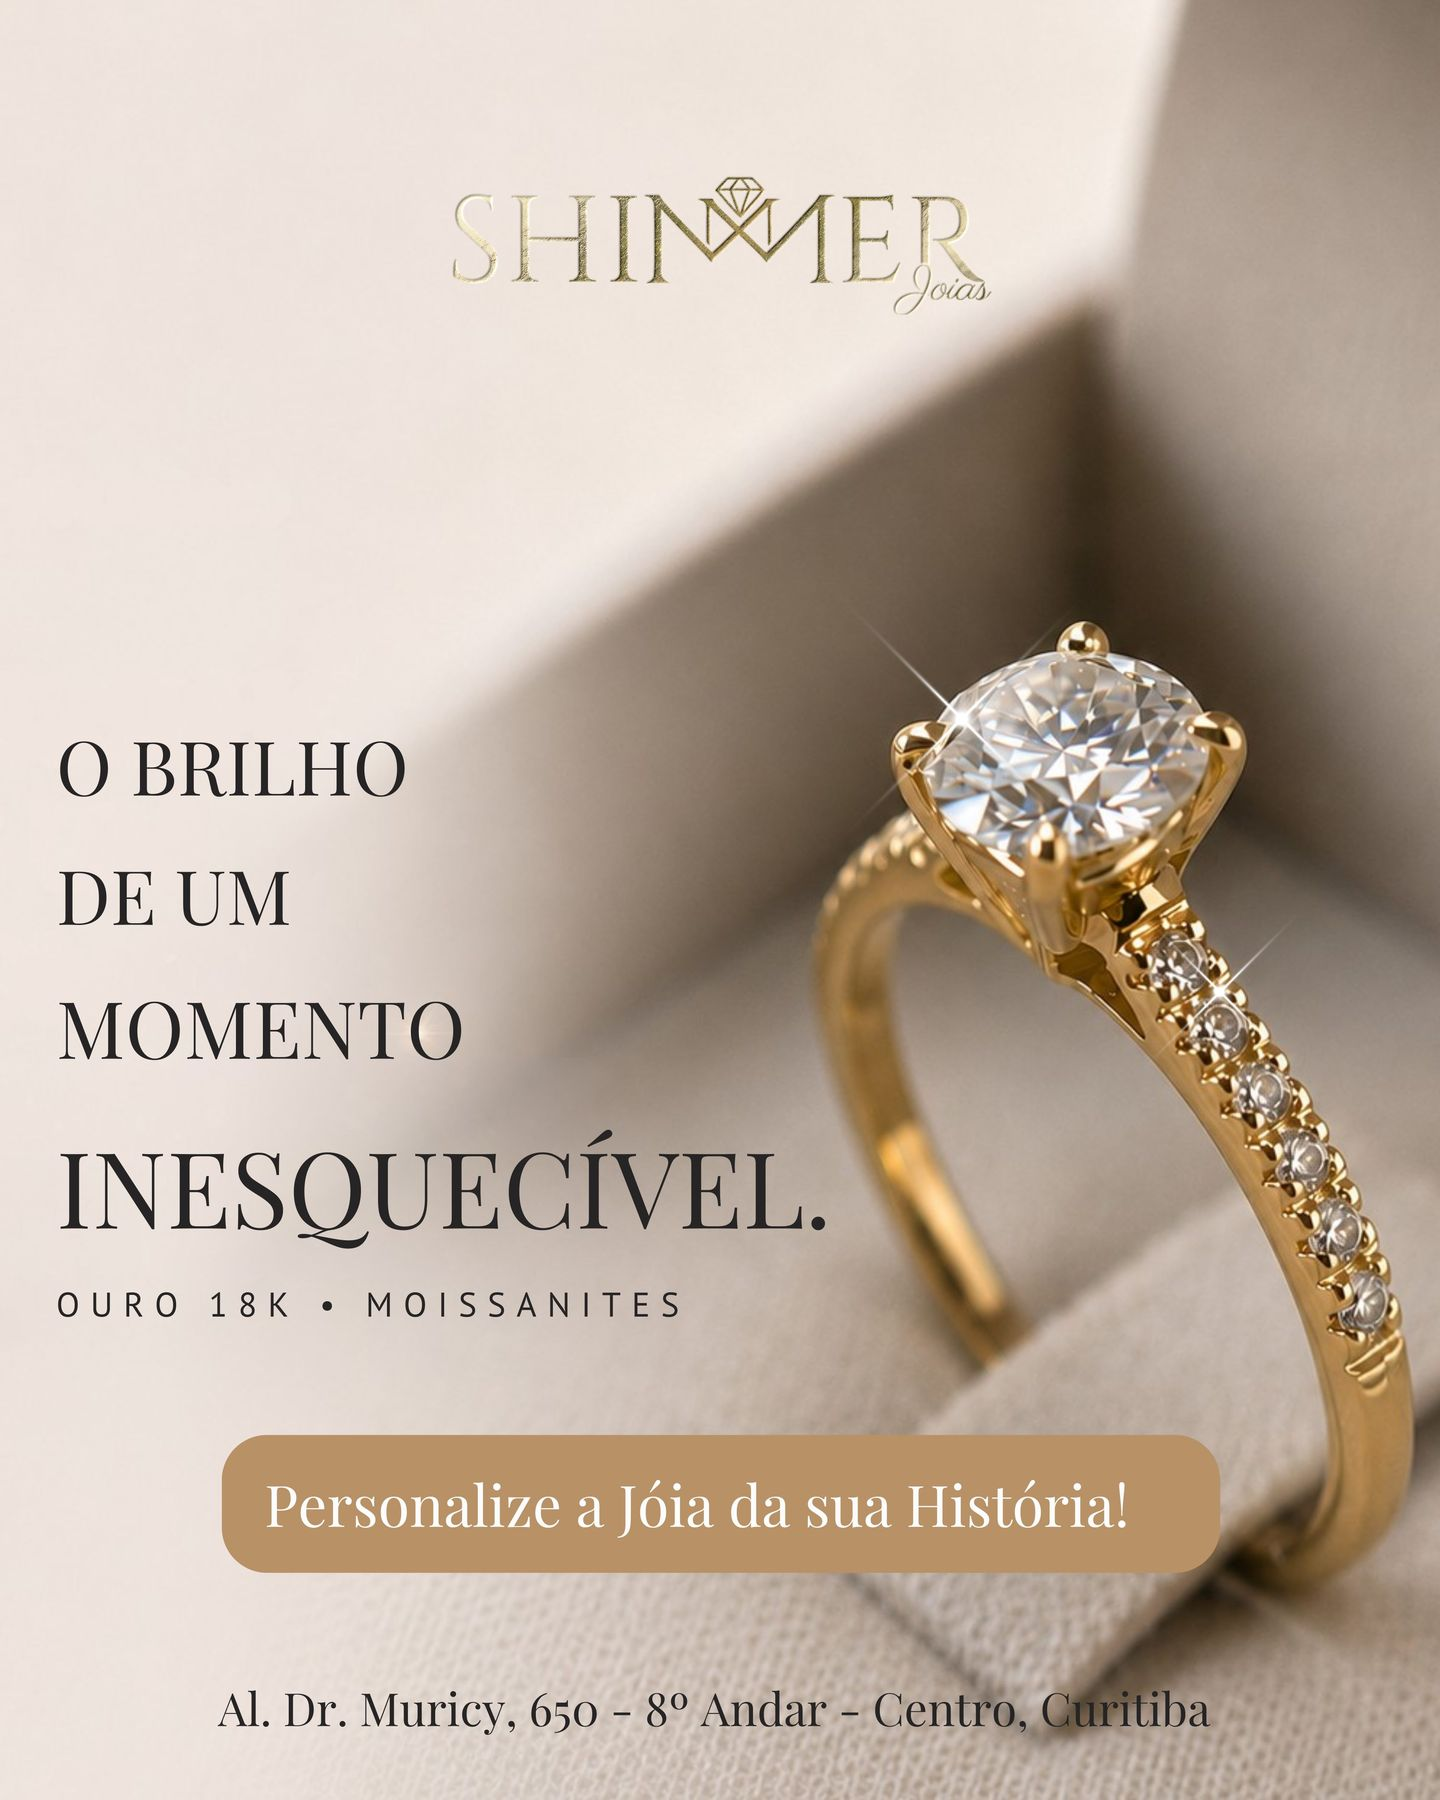
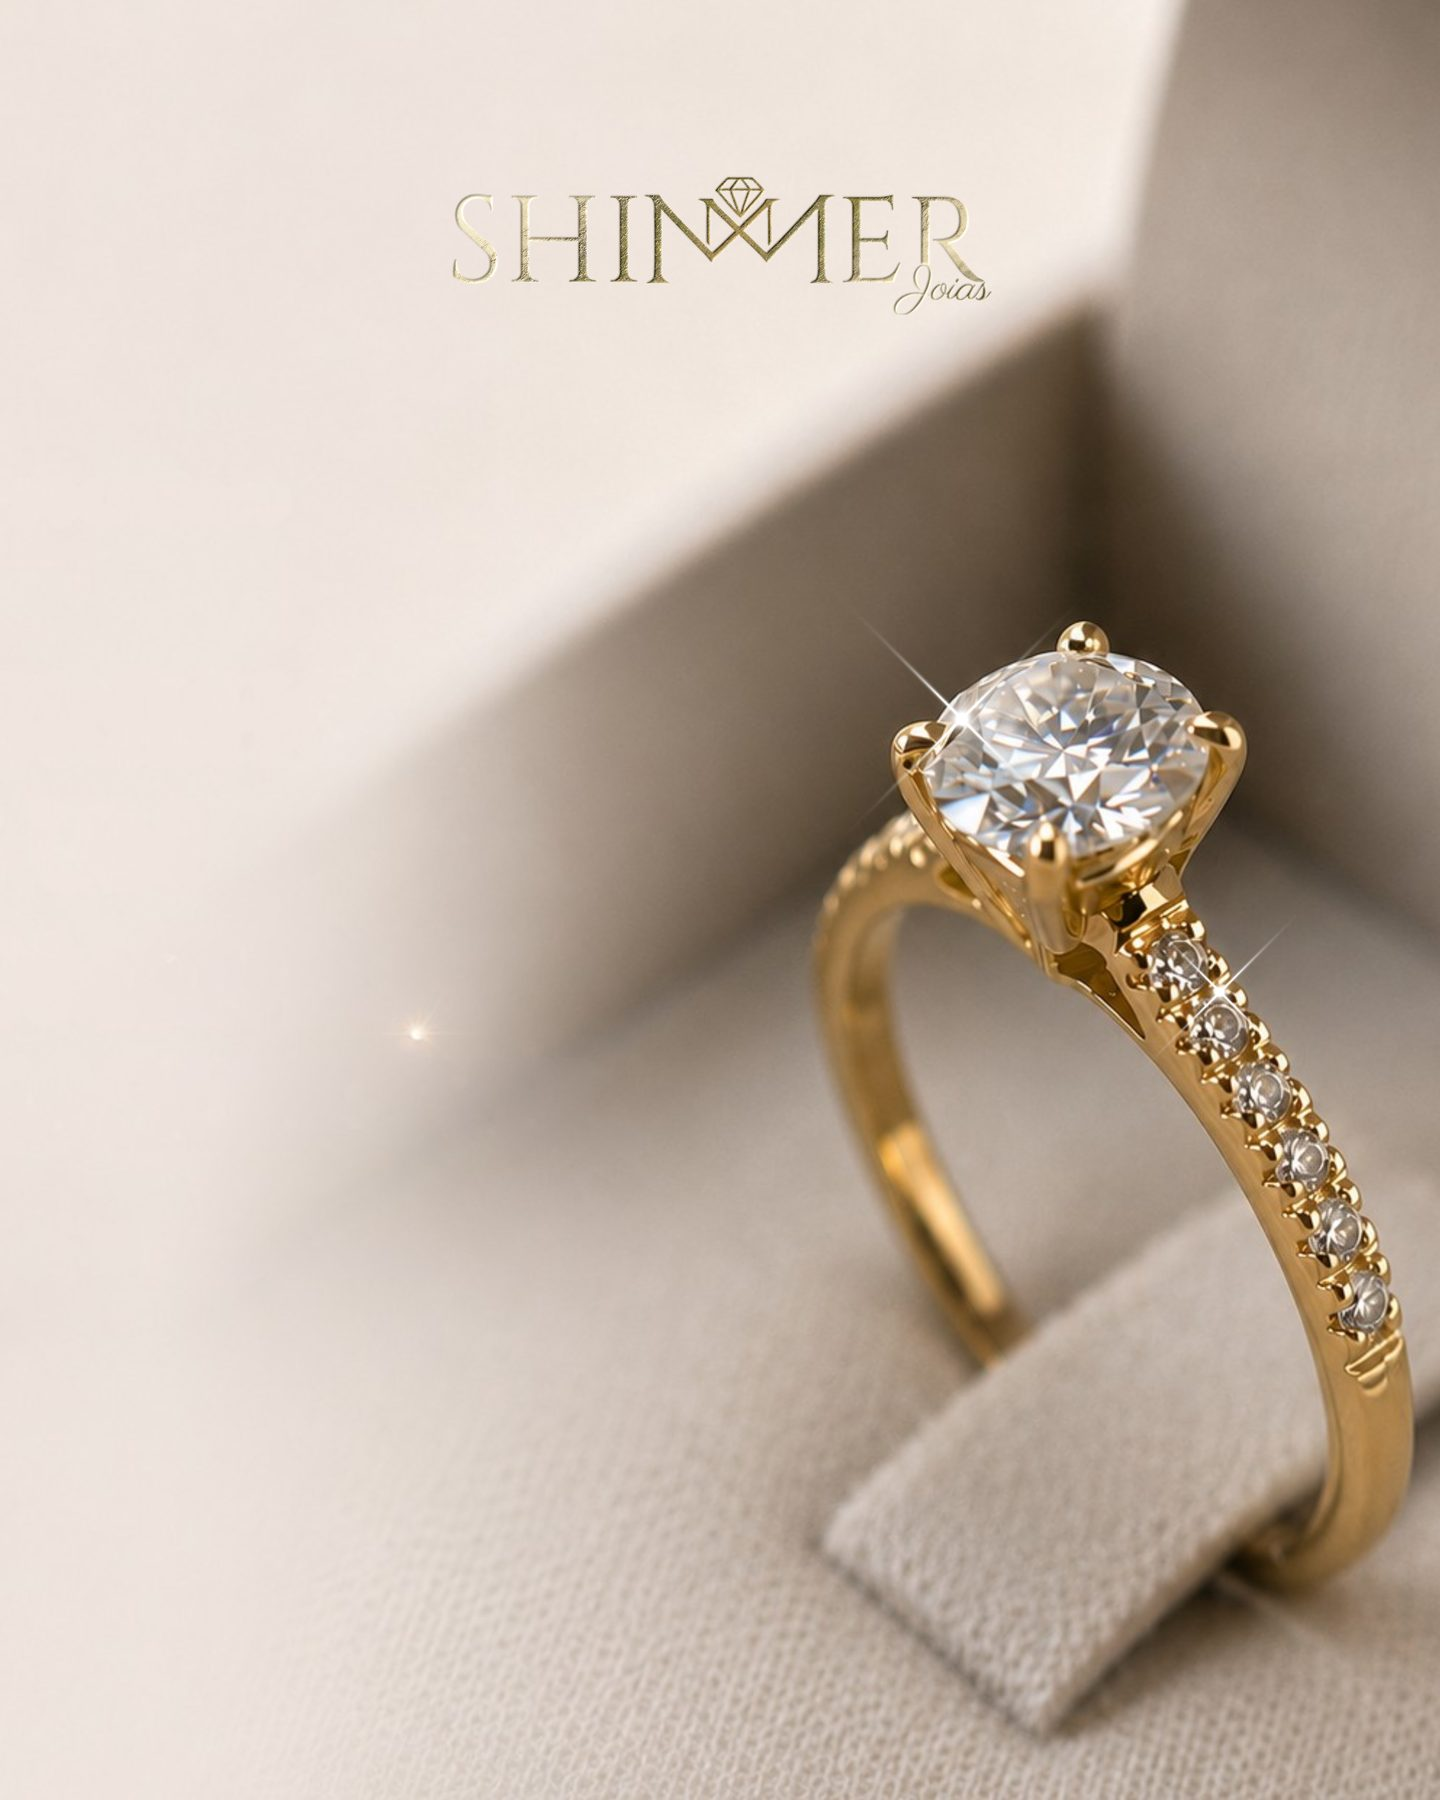
New hero image with text overlay, categories dropdown, remove personalizacao section
- New hero banner (ring close-up) with text: Nova Coleção 2026 / O Brilho de um Momento Inesquecível
- Navigation: Joias dropdown with Anéis Solitários, Aparadores, Anéis Masculinos, Pulseiras, Brincos, Coleções Especiais
- Remove personalizacao section from home page
- Full mobile responsiveness for hero and dropdown

https://claude.ai/code/session_01XyPDi77vEmDtXAeXY1gkBX

diff --git a/index.html b/index.html
@@ -22,15 +22,25 @@
   <header id="header">
     <div class="header-inner">
       <nav class="nav-left">
-        <a href="#colecoes">Coleções</a>
-        <a href="#joias">Joias</a>
+        <div class="nav-dropdown">
+          <a href="#joias" class="nav-dropdown-trigger">Joias <svg width="10" height="10" viewBox="0 0 24 24" fill="none" stroke="currentColor" stroke-width="2.5"><polyline points="6 9 12 15 18 9"/></svg></a>
+          <div class="nav-dropdown-menu">
+            <a href="categoria.html?cat=aneis">Anéis Solitários</a>
+            <a href="categoria.html?cat=aparadores">Aparadores</a>
+            <a href="categoria.html?cat=aneis-masculinos">Anéis Masculinos</a>
+            <a href="categoria.html?cat=pulseiras">Pulseiras</a>
+            <a href="categoria.html?cat=brincos">Brincos</a>
+            <div class="dropdown-divider"></div>
+            <a href="#colecoes" class="dropdown-destaque">Coleções Especiais — Alianças</a>
+          </div>
+        </div>
         <a href="#novidades">Novidades</a>
+        <a href="#sobre">Sobre</a>
       </nav>
       <a href="#" class="logo">
         <img src="images/logo.png" alt="SHIMMER JOIAS" class="logo-img" />
       </a>
       <nav class="nav-right">
-        <a href="#sobre">Sobre</a>
         <a href="#contato">Contato</a>
         <a href="#" class="nav-icon" aria-label="Buscar">
           <svg width="18" height="18" viewBox="0 0 24 24" fill="none" stroke="currentColor" stroke-width="1.5"><circle cx="11" cy="11" r="8"/><line x1="21" y1="21" x2="16.65" y2="16.65"/></svg>
@@ -45,6 +55,11 @@
   <!-- HERO -->
   <section class="hero" id="inicio">
     <img src="images/hero-anel.jpg" alt="Shimmer Joias" class="hero-img" />
+    <div class="hero-text">
+      <p class="hero-tag">Nova Coleção 2026</p>
+      <h1>O Brilho de um<br /><em>Momento Inesquecível</em></h1>
+      <a href="#joias" class="hero-cta">Explorar joias</a>
+    </div>
   </section>
 
   <!-- CATEGORIAS -->
@@ -308,27 +323,6 @@
       </div>
       <div class="ver-mais">
         <a href="categoria.html?cat=aneis" class="btn-outline">Ver todos os anéis</a>
-      </div>
-    </div>
-  </section>
-
-  <!-- PERSONALIZAÇÃO -->
-  <section class="personalizacao" id="personalizacao">
-    <div class="personalizacao-inner">
-      <div class="personalizacao-img">
-        <img src="images/personalizacao.jpg" alt="Guia de personalização de joias Shimmer" />
-      </div>
-      <div class="personalizacao-texto">
-        <p class="section-label">Sob Medida</p>
-        <h2>Crie a joia<br /><em>dos seus sonhos</em></h2>
-        <p class="personalizacao-desc">Cada detalhe é pensado para você. Escolha o formato, a largura, o acabamento e o conforto interno da sua aliança ou joia personalizada — e nós transformamos em realidade.</p>
-        <ul class="personalizacao-lista">
-          <li><span class="lista-dot"></span>Formato externo: boleada, reta, chanfrada ou côncava</li>
-          <li><span class="lista-dot"></span>Largura: de 3mm a 7mm</li>
-          <li><span class="lista-dot"></span>Acabamento: lisa, com pedras, fosca ou diamantada</li>
-          <li><span class="lista-dot"></span>Formato interno: reto ou anatômico</li>
-        </ul>
-        <a href="https://wa.me/554199441433?text=Olá!%20Quero%20criar%20uma%20joia%20personalizada%20na%20Shimmer%20Joias." target="_blank" class="btn-primary personalizacao-btn">Quero personalizar pelo WhatsApp</a>
       </div>
     </div>
   </section>

diff --git a/css/style.css b/css/style.css
@@ -169,18 +169,122 @@ ul { list-style: none; }
   height: 100svh;
   min-height: 500px;
   overflow: hidden;
-  display: block;
+  position: relative;
 }
 .hero-img {
   width: 100%;
   height: 100%;
   object-fit: cover;
-  object-position: center center;
+  object-position: center 20%;
   display: block;
 }
+.hero-text {
+  position: absolute;
+  top: 14%;
+  left: 50%;
+  transform: translateX(-50%);
+  text-align: center;
+  width: 100%;
+  padding: 0 24px;
+  z-index: 2;
+}
+.hero-tag {
+  font-size: 10px;
+  letter-spacing: 0.3em;
+  text-transform: uppercase;
+  color: var(--gold-dark);
+  font-weight: 600;
+  margin-bottom: 10px;
+}
+.hero-text h1 {
+  font-family: 'Cormorant Garamond', serif;
+  font-size: clamp(28px, 5vw, 64px);
+  font-weight: 300;
+  color: var(--dark);
+  line-height: 1.1;
+  margin-bottom: 20px;
+}
+.hero-text h1 em { font-style: italic; color: var(--gold-dark); }
+.hero-cta {
+  display: inline-block;
+  padding: 11px 32px;
+  background: var(--dark);
+  color: var(--white);
+  font-size: 10px;
+  letter-spacing: 0.2em;
+  text-transform: uppercase;
+  font-weight: 600;
+  transition: all var(--transition);
+}
+.hero-cta:hover { background: var(--gold); color: var(--white); }
+
+/* ===== NAV DROPDOWN ===== */
+.nav-dropdown { position: relative; }
+.nav-dropdown-trigger {
+  display: flex;
+  align-items: center;
+  gap: 4px;
+  cursor: pointer;
+}
+.nav-dropdown-trigger svg { transition: transform 0.25s; }
+.nav-dropdown:hover .nav-dropdown-trigger svg { transform: rotate(180deg); }
+.nav-dropdown-menu {
+  position: absolute;
+  top: calc(100% + 18px);
+  left: 50%;
+  transform: translateX(-50%);
+  background: #fff;
+  border: 1px solid rgba(201,168,76,0.2);
+  box-shadow: 0 12px 40px rgba(0,0,0,0.12);
+  min-width: 220px;
+  padding: 8px 0;
+  opacity: 0;
+  visibility: hidden;
+  transform: translateX(-50%) translateY(-6px);
+  transition: all 0.2s ease;
+  z-index: 500;
+}
+.nav-dropdown:hover .nav-dropdown-menu {
+  opacity: 1;
+  visibility: visible;
+  transform: translateX(-50%) translateY(0);
+}
+.nav-dropdown-menu a {
+  display: block;
+  padding: 10px 20px;
+  font-size: 12px;
+  letter-spacing: 0.08em;
+  color: var(--dark);
+  transition: background 0.15s, color 0.15s;
+  text-transform: none;
+  font-weight: 400;
+}
+.nav-dropdown-menu a::after { display: none; }
+.nav-dropdown-menu a:hover { background: var(--cream); color: var(--gold-dark); }
+.dropdown-divider { height: 1px; background: rgba(201,168,76,0.15); margin: 6px 0; }
+.dropdown-destaque {
+  color: var(--gold-dark) !important;
+  font-weight: 600 !important;
+  font-size: 11px !important;
+  letter-spacing: 0.1em !important;
+}
+
 @media (max-width: 768px) {
   .hero { height: 100svh; min-height: 480px; }
-  .hero-img { object-position: 62% center; }
+  .hero-img { object-position: 58% 20%; }
+  .hero-text { top: 6%; }
+  .hero-text h1 { font-size: clamp(22px, 6vw, 32px); }
+  .nav-dropdown-menu {
+    position: fixed;
+    top: 72px;
+    left: 0;
+    right: 0;
+    transform: none;
+    width: 100%;
+    border-left: none;
+    border-right: none;
+  }
+  .nav-dropdown:hover .nav-dropdown-menu { transform: none; }
 }
 
 /* ===== CATEGORIAS ===== */
